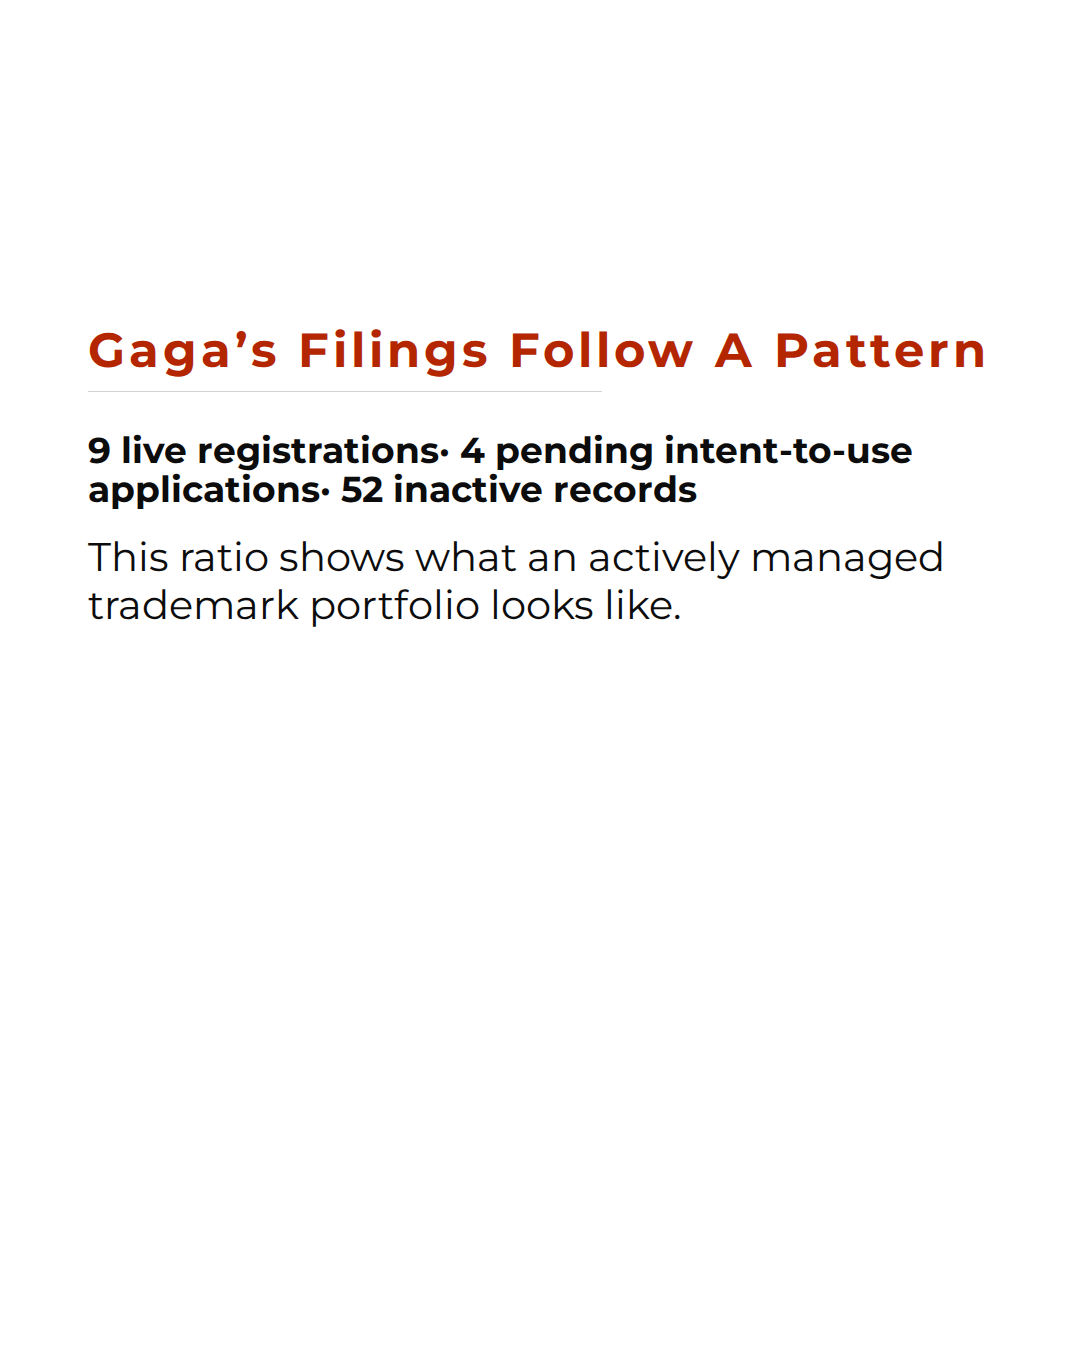
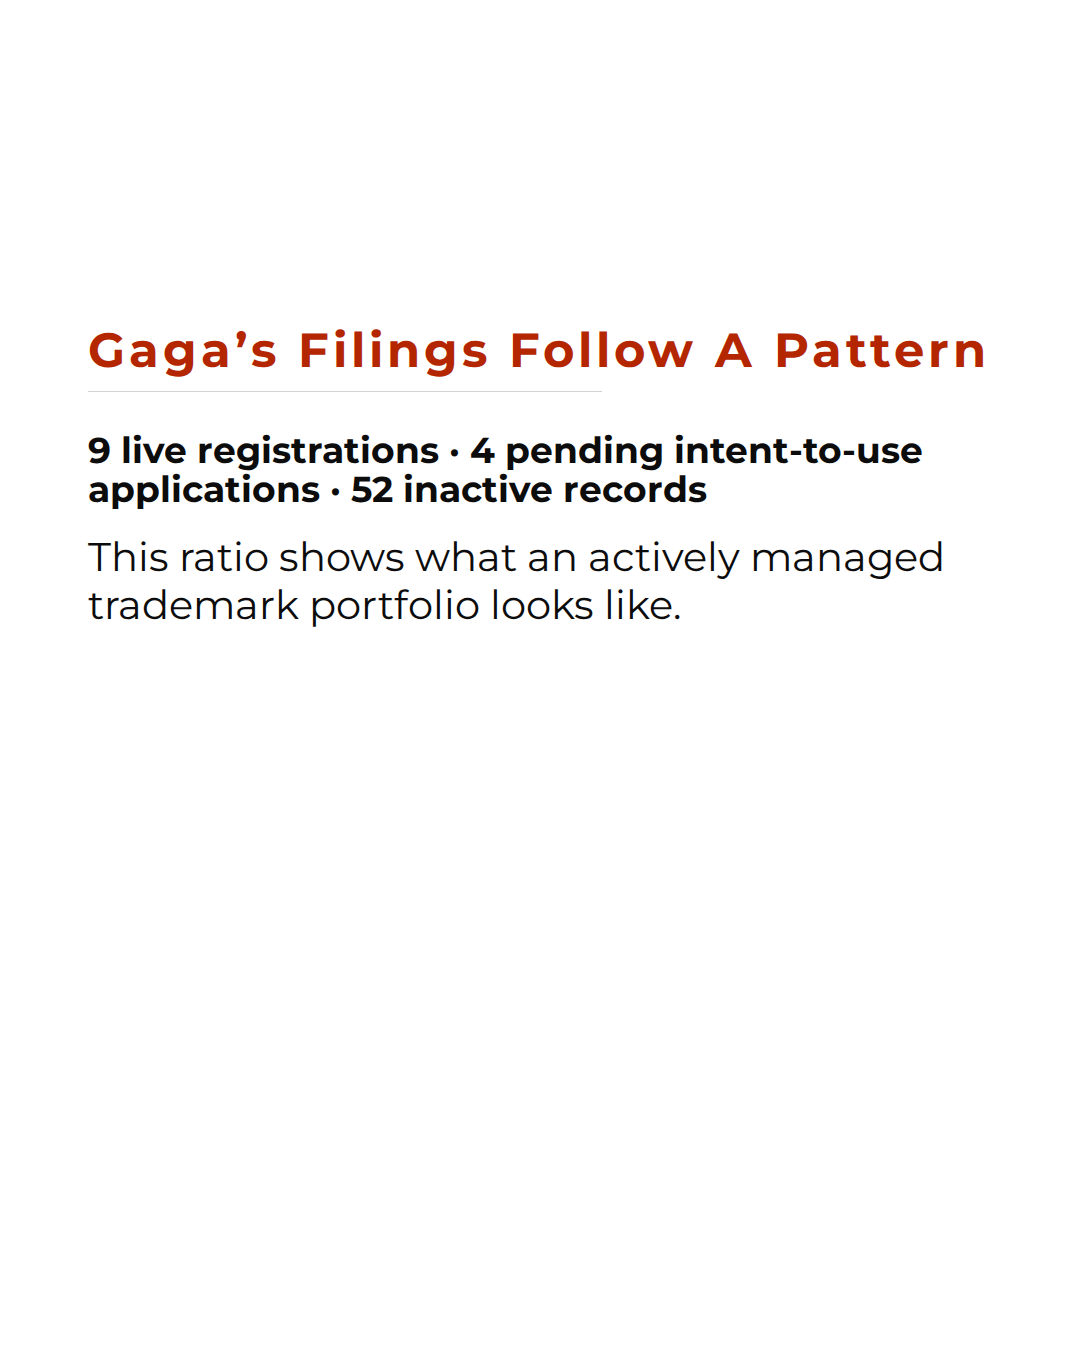
Sync main-side slide edits into CSV; fix typos and clipped titles
Fold the 19 web edits made on main across the four Gaga carousels back
into posts.csv and the CTA library, and regenerate so HTML, PNG, and
source agree. Corrects obvious typos in the edited copy (abandonment,
resurrection, double dashes, spacing around separators) and wraps two
titles that no longer fit on one line at the minimum size, including
one that had shipped clipped because the Action's fast render skips
overflow validation.

Claude-Session: https://claude.ai/code/session_01DcJjyEqKKpuBm11ozHHHg2

Changed region(s): [[0.3056, 0.3111, 0.8556, 0.3733]]

diff --git a/output/gaga-dead-trademarks/html/slide-05.html b/output/gaga-dead-trademarks/html/slide-05.html
@@ -82,11 +82,12 @@
 
 <div class="slide bg-paper" data-template="middle">
 
-  <p class="bl-bot title">Gaga’s Rights May Survive, Dead or Alive</p>
+  <p class="bl-bot title">Gaga’s Rights May Survive,
+Dead or Alive</p>
   <div class="rule r-top"></div>
 
   <div class="content">
-    <h2 class="subheading">The ressurection of HAUS LABORATORIES</h2>
+    <h2 class="subheading">The resurrection of HAUS LABORATORIES</h2>
     <p class="body">A single dead record tells you almost nothing until you read the portfolio around it. One HAUS LABORATORIES registration from 2015 is dead while another HAUS LABORATORIES registration from 2022 is live.</p>
     <img
       src=""

diff --git a/output/gaga-dead-trademarks/html/slide-04.html b/output/gaga-dead-trademarks/html/slide-04.html
@@ -87,7 +87,7 @@
 
   <div class="content">
     <h2 class="subheading">LITTLE MONSTERS · ARTPOP</h2>
-    <p class="body">Registration is not permanent. LITTLE MONSTERS registered in 2013 for streaming and social networking and ARTPOP registered in 2015 for merchandise––both left the register. Ongoing maintenance is required to keep registrations alive.</p>
+    <p class="body">Registration is not permanent. LITTLE MONSTERS registered in 2013 for streaming and social networking and ARTPOP registered in 2015 for merchandise. Both left the register. Ongoing maintenance is required to keep registrations alive.</p>
     <img
       src=""
       alt=""

diff --git a/output/gaga-trademark-strategy/html/slide-05.html b/output/gaga-trademark-strategy/html/slide-05.html
@@ -87,7 +87,7 @@
 
   <div class="content">
     <h2 class="subheading">Filing early is a strategy, not a formality.</h2>
-    <p class="body">All four pending applications were filed on an intent-to-use basis, reserving priority before products ship. This includes HAUS LABS lines and LADY GAGA cosmetics-accessory filings</p>
+    <p class="body">All four pending applications were filed on an intent-to-use basis, reserving priority before products ship. This includes HAUS LABS lines and LADY GAGA cosmetics-accessory filings.</p>
     <img
       src=""
       alt=""

diff --git a/output/gaga-abandoned-trademarks/html/slide-04.html b/output/gaga-abandoned-trademarks/html/slide-04.html
@@ -87,7 +87,7 @@
 
   <div class="content">
     <h2 class="subheading"></h2>
-    <p class="body">The reasoning behind abandonement is often unclear, but it can occur if  plans shift, a deadline passes, a statement of use is never filed, or a filing is replaced by a better one.</p>
+    <p class="body">The reasoning behind abandonment is often unclear, but it can occur if plans shift, a deadline passes, a statement of use is never filed, or a filing is replaced by a better one.</p>
     <img
       src=""
       alt=""

diff --git a/output/gaga-trademark-strategy/html/slide-06.html b/output/gaga-trademark-strategy/html/slide-06.html
@@ -87,7 +87,7 @@
 
   <div class="content">
     <h2 class="subheading">See HAUS BEAUTY and HAUS LABS</h2>
-    <p class="body"> Portfolios get pruned as plans mature. HAUS BEAUTY and an early HAUS LABS application lapsed, but refiled versions registered in 2022 and 2025.</p>
+    <p class="body">Portfolios get pruned as plans mature. HAUS BEAUTY and an early HAUS LABS application lapsed, but refiled versions registered in 2022 and 2025.</p>
     <img
       src=""
       alt=""

diff --git a/output/gaga-trademark-strategy/html/slide-02.html b/output/gaga-trademark-strategy/html/slide-02.html
@@ -86,7 +86,7 @@
   <div class="rule r-top"></div>
 
   <div class="content">
-    <h2 class="subheading">9 live registrations· 4 pending intent-to-use applications· 52 inactive records</h2>
+    <h2 class="subheading">9 live registrations · 4 pending intent-to-use applications · 52 inactive records</h2>
     <p class="body">This ratio shows what an actively managed trademark portfolio looks like.</p>
     <img
       src=""

diff --git a/output/gaga-trademark-strategy/html/slide-03.html b/output/gaga-trademark-strategy/html/slide-03.html
@@ -86,7 +86,7 @@
   <div class="rule r-top"></div>
 
   <div class="content">
-    <h2 class="subheading">LADY GAGA was filed in 2008 </h2>
+    <h2 class="subheading">LADY GAGA was filed in 2008</h2>
     <p class="body">LADY GAGA was officially registered for entertainment services in 2009, then came clothing, followed by recordings. By 2017, one merchandise registration spanned 14 classes.</p>
     <img
       src=""

diff --git a/output/gaga-trademark-universe/html/slide-08.html b/output/gaga-trademark-universe/html/slide-08.html
@@ -63,7 +63,7 @@
 
 <div class="slide bg-paper" data-template="closing" data-cta-key="gaga-universe">
 
-  <h1 class="bl-bot headline">Build Your 
+  <h1 class="bl-bot headline">Build Your
 Brand Universe</h1>
 
   <p class="bl-top subheading">Schedule a Consultation</p>

diff --git a/output/gaga-abandoned-trademarks/html/slide-06.html b/output/gaga-abandoned-trademarks/html/slide-06.html
@@ -82,7 +82,8 @@
 
 <div class="slide bg-paper" data-template="middle">
 
-  <p class="bl-bot title">Abandoned Does Not Mean Available</p>
+  <p class="bl-bot title">Abandoned Does Not
+Mean Available</p>
   <div class="rule r-top"></div>
 
   <div class="content">

diff --git a/output/gaga-dead-trademarks/html/slide-08.html b/output/gaga-dead-trademarks/html/slide-08.html
@@ -63,7 +63,7 @@
 
 <div class="slide bg-paper" data-template="closing" data-cta-key="gaga-dead">
 
-  <h1 class="bl-bot headline">Get a full 
+  <h1 class="bl-bot headline">Get a full
 clearance review</h1>
 
   <p class="bl-top subheading">Reach out today</p>
